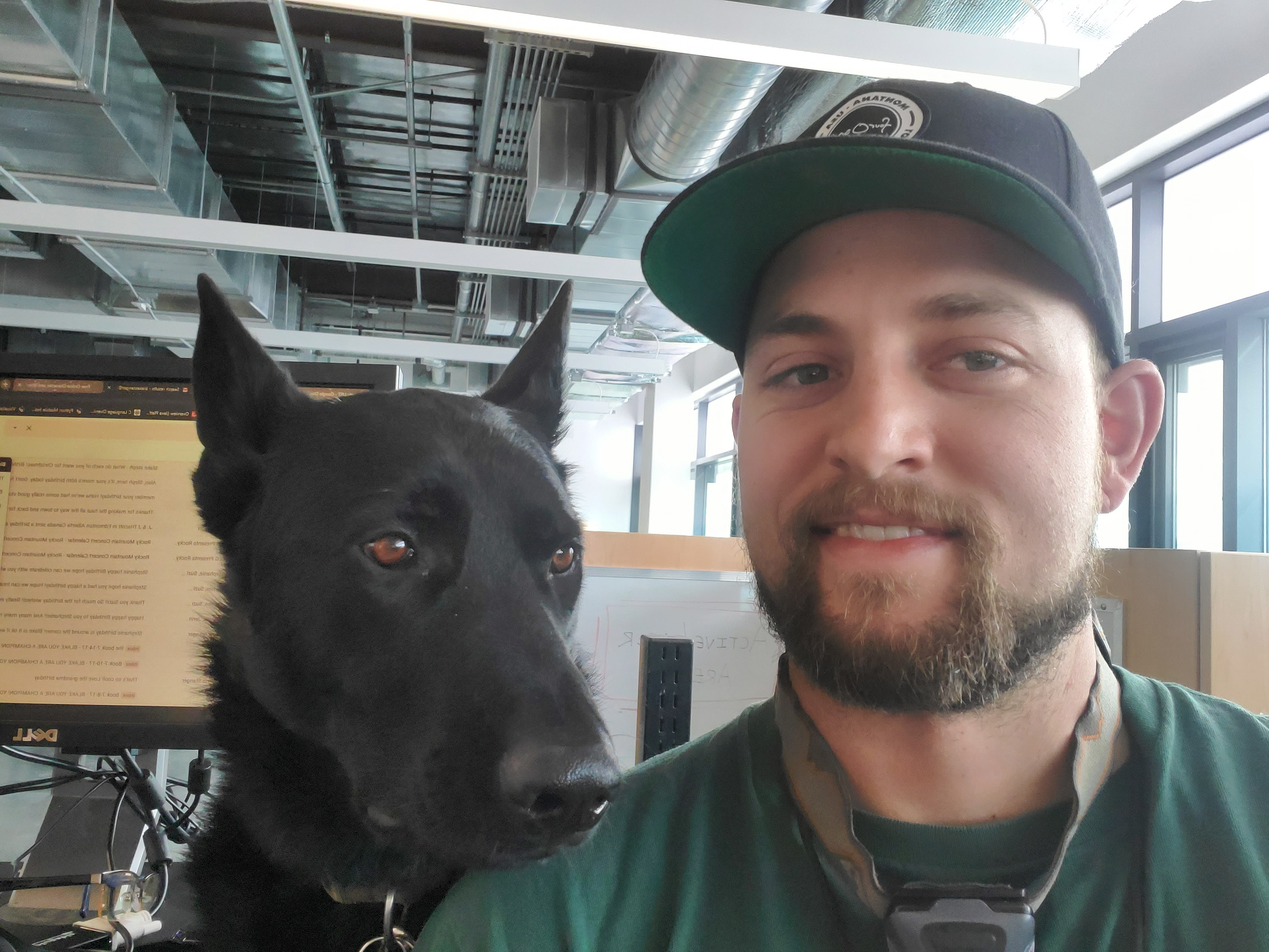
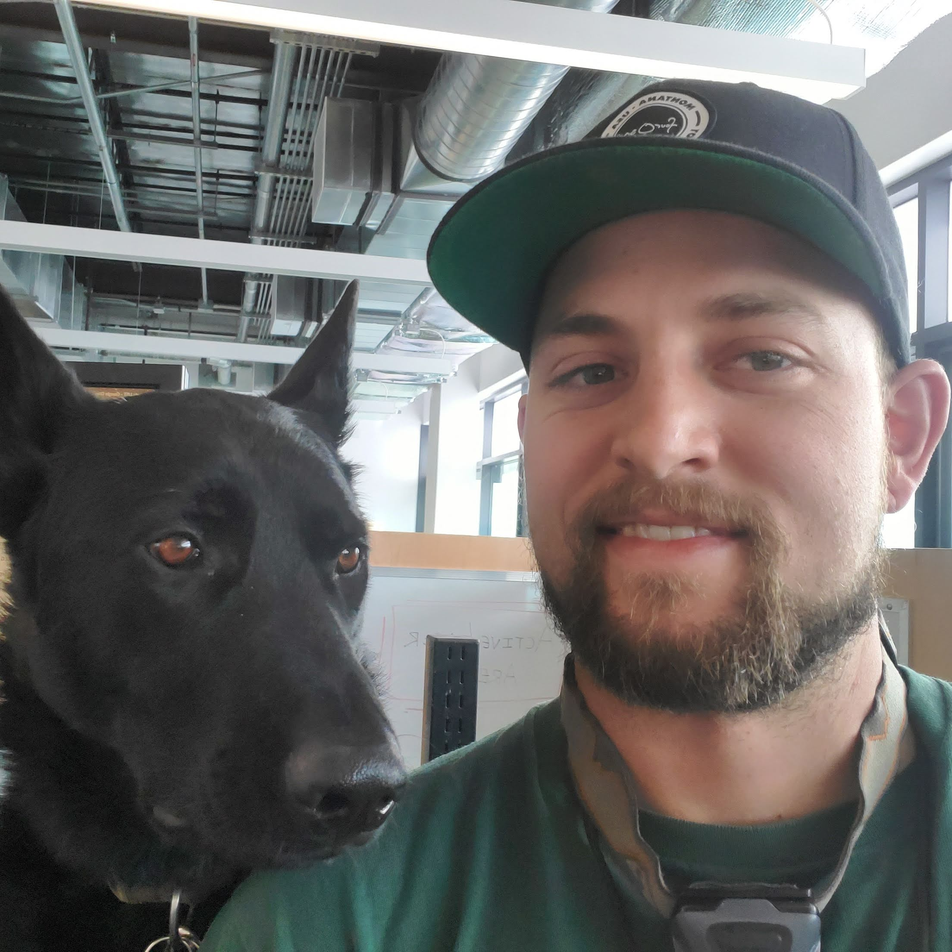
pic formatting fixed

diff --git a/_site/index.html b/_site/index.html
@@ -51,7 +51,7 @@
 <meta property="og:url" content="http://localhost:4000/" />
 <meta property="og:site_name" content="MSU Software Engineering Lab" />
 <script type="application/ld+json">
-{"@type":"WebSite","url":"http://localhost:4000/","headline":"Home","name":"MSU Software Engineering Lab","author":{"@type":"Person","name":"Thane Richard"},"@context":"https://schema.org"}</script>
+{"@type":"WebSite","headline":"Home","url":"http://localhost:4000/","name":"MSU Software Engineering Lab","author":{"@type":"Person","name":"Thane Richard"},"@context":"https://schema.org"}</script>
 <!-- End Jekyll SEO tag -->
 
 

diff --git a/_site/404.html b/_site/404.html
@@ -51,7 +51,7 @@
 <meta property="og:url" content="http://localhost:4000/404.html" />
 <meta property="og:site_name" content="MSU Software Engineering Lab" />
 <script type="application/ld+json">
-{"@type":"WebPage","url":"http://localhost:4000/404.html","headline":"404: Page not found","author":{"@type":"Person","name":"Thane Richard"},"@context":"https://schema.org"}</script>
+{"@type":"WebPage","headline":"404: Page not found","url":"http://localhost:4000/404.html","author":{"@type":"Person","name":"Thane Richard"},"@context":"https://schema.org"}</script>
 <!-- End Jekyll SEO tag -->
 
 

diff --git a/_posts/2020-01-27-people.md b/_posts/2020-01-27-people.md
@@ -14,37 +14,39 @@ image: norm.jpg
 Dr. Izurieta is an Associate Professor in the Gianforte School of Computing department at Montana State University.
 Born in Santiago, Chile, his research interests include empirical software engineering, design and architecture of software systems, design patterns, the measurement of software quality and cybersecurity.
 Dr. Izurieta has approximately 16 years experience working for various R&D labs at Hewlett Packard and Intel Corporation.
-When not teaching, Clem and his wife (Sharlyn) can be found in the local trails, running, hiking or snow shoeing!
+When not teaching, Clem and his wife (Sharlyn) can be found in the local trails, running, hiking or snow shoeing!  
+<br/>  
 
 # Post-doctoral Researchers
 
 ## Derek Reimanis
 ![Derek Reimanis](/assets/img/derek.png){:style="float: left;margin-right: 7px;margin-top: 7px;" height="28%" width="28%"}
 Dr. Derek Reimanis is currently a course assistant for the Empirical Software Engineering course at Montana State University, while eagerly awaiting funding to be finalized for a post-doc project focusing on cyber-security research. His research interests center around software quality assurance, incorporating software process automation, software design, technical debt, and empirical software engineering.
-Derek has lived in Colorado and Montana most of his life. He is an avid backpacker, aspiring mountaineer, and skier.
+Derek has lived in Colorado and Montana most of his life. He is an avid backpacker, aspiring mountaineer, and skier.  
+<br/>  
 
 # Graduate Students
 
 ## Andrew Johnson
-![Andrew Johnson](/assets/img/andrew.png){:style="float: left;margin-right: 7px;margin-top: 7px;"}
+![Andrew Johnson](/assets/img/andrew.jpeg){:style="float: left;margin-right: 7px;margin-top: 7px;"  height="28%" width="28%"}
 Andrew Johnson is a doctoral student at the Gianforte School of Computing.
 He has lived in Washington, California, and Montana, but decided to stay in Montana for his undergraduate degree in Helena, then come to Bozeman to continue his education.
 Andrew's research focuses on the relationship between software quality and security.
 Andrew enjoys the outdoors and is planning on replacing his picture as soon as he catches a bigger fish than the one pictured.
 
 ## Grant Nelson
-![Grant Nelson](/assets/img/grant.jpg){:style="float: left;margin-right: 7px;margin-top: 7px;"}
+![Grant Nelson](/assets/img/grant.jpg){:style="float: left;margin-right: 7px;margin-top: 7px;" height="28%" width="28%"}
 Grant Nelson is a doctoral student at the Gianforte School of Computing. He has an interest in software design, technical debt analysis, software quality assurance, and embedded software. His research focus is technical debt. He has been employed as a senior software engineer at Workiva since 2014. At Workiva, he researches and develops collaborative distributed systems with a large team. Grant has a love of hiking and camping as well as graphical software and game design.
 
 ## Karishma Rahman
-![Karishma Rahman](/assets/img/karishma.jpeg){:style="float: left;margin-right: 7px;margin-top: 7px;"}
+![Karishma Rahman](/assets/img/karishma.jpeg){:style="float: left;margin-right: 7px;margin-top: 7px;" height="28%" width="28%"}
 Karishma Rahman is an international graduate student from Bangladesh, currently pursuing her Masters degree at the Gianforte School of Computing. After getting her Bachelors's degree in computer science from BRAC University in Dhaka, Bangladesh, she decided to endeavor for her graduate studies, which led her to Montana State University in Bozeman, MT. Her research focus is on the automation of software testing. She is going to defend her master's thesis in Spring 2020. Afterward, she plans to continue her research in pursuit of a doctorate in computer science. Karishma enjoys traveling, cooking, baking, and painting.
 
 ## Faqeer Rehman
-![Faqeer Rehman](/assets/img/faqeer.jpg){:style="float: left;margin-right: 7px;margin-top: 7px;"}
+![Faqeer Rehman](/assets/img/faqeer.jpg){:style="float: left;margin-right: 7px;margin-top: 7px;"  height="28%" width="28%"}
 Faqeer ur Rehman is originally from Pakistan and is currently a doctoral student in Computer Science at the Gianforte School of Computing. He has 7 years of experience working in the software industry. He loves to work on designing and developing large scale web-based solutions having a special focus on a flexible architecture, optimization and security. Along with his team , he designed and developed a first-ever web-based E-Ticketing solution for Pakistan Railways that is currently in use across Pakistan. Along with his interests in software engineering, Faqeer also enjoys the development of Machine Learning systems and their testing using the Metamorphic testing (MT) technique.
 
-Read more about his project [here](/documentation/people.html/Testing Deep Neural Network (MLP architecture) for Disease Type Prediction)
+Read more about his project [here](/documentation/projects.html)
 
 ## David Rice
 ![David Rice](/assets/img/rice.png){:style="float: left;margin-right: 7px;margin-top: 7px;"}
@@ -60,13 +62,15 @@ Thane Richard is a master's student in computer science at Montana State Univers
 Thane is a relative neophyte in computer science, but is swiftly making up for lost time. He loves to travel and be outdoors and on the water. Thane received his Merchant Mariner Credential in 2019 and is working towards his 200 ton Master's license. He has taught on sailing school vessels and coaches the Bozeman High speech and debate short prep team.
 
 ## Nate Woods
-![Nate Woods](/assets/img/nate.jpg){:style="float: left;margin-right: 7px;margin-top: 7px;"}
+![Nate Woods](/assets/img/nate.jpg){:style="float: left;margin-right: 7px;margin-top: 7px;"  height="28%" width="28%"}
 Nate Woods is currently a doctoral student in the Computer Science Department at Montana State University in Bozeman, MT.  Nate holds a M.S. in Computer Science from Montana State University and a B.A. in Computer Science and Mathematics with a Minor in Physics from Carroll College.  Nate's current research focus is on software engineering, specifically the development and evolution of distributed systems.
+<br/>  
+<br/>  
 
 # Undergraduate Students
 
 ## Blake Stanger
-![Blake Stanger](/assets/img/blake.jpg){:style="float: left;margin-right: 7px;margin-top: 7px;"}
+![Blake Stanger](/assets/img/blake.jpg){:style="float: left;margin-right: 7px;margin-top: 7px;"  height="28%" width="28%"}
 Blake Stanger is an undergraduate student of computer science, Montana State University. Blake is consumed by a sense of discovery and exploration.  He has traveled extensively in several countries including India, China, Cambodia, Thailand, Iceland, Sweden, and Vietnam. Interesting economic times have led Blake to try his hand at many fields.
 
 He graduated with honors in 2013 with an English Teaching degree from Montana State University. Blake led a small classroom in Anaconda, Montana. He taught all levels, remedial reading all the way to advanced placement English for his small community. Blake has also led a team of diesel mechanics at the family business to repair and rebuild one of his favorite marvels of endurance: the diesel engine. Next Blake built farming irrigation systems. He is particularly proud of an entirely gravity fed thirty thousand gallon system built from scratch that operates in northern California on 500 acres. One influence was strong in all these fields. Computer science has been and will be a massive influence in our society. Once Blake understood the profound power technology will have in the coming years he returned to study at MSU in 2018.
@@ -74,6 +78,8 @@ He graduated with honors in 2013 with an English Teaching degree from Montana St
 Blake loves to understand complex systems, and explain those systems to others. Blake values efficiency.  He hopes to fuse his knowledge of education, machines, and technology to positively contribute to society. Blake is grateful to those who have taken the time to teach him and looks forward to helping others with their education.
 
 In his spare time Blake loves to write and is thirty thousand words into creating a novel, a story about adventure and coming of age in the modern American West. He also loves mountain biking, nature, and hunting.
+<br/>  
+<br/>  
 
 # Alumni of the Lab
 

diff --git a/_posts/2020-01-28-projects.md b/_posts/2020-01-28-projects.md
@@ -10,18 +10,28 @@ image: msu.jpg
 # Current Projects
 
 ## Development of a Software Quality Analysis Tool
+*Project Participants: David Rice, Thane Richard*
 
 For guidance on implementing this software, visit the [Documentation page](/pages/documentation)
 
 ## Testing Deep Neural Network (MLP architecture) for Disease Type Prediction
+*Project Participants: Faqeer Rehman*
 
 It is very challenging to test Machine Learning (ML) systems that learn from the data where we don't know the correct answer. Due to the absence of test oracle, one way to test these applications is to use the Metamorphic testing technique. I am currently working on applying the metamorphic relations (MRs) on the DNN based system (MLP architecture with regularization, having 5 layers) that learns and predicts cancer type given patient somatic SNPs data. These MRs are originally proposed by Xiaoyuan Xie in the paper (https://www.sciencedirect.com/science/article/pii/S0164121210003213) for testing ML-based systems. The main goal of my study is to identify how the metamorphic testing technique can be effectively used to identify faults in systems having non-deterministic nature like DNNs.
+<br/>
+<br/>
 
 # Past Projects
-## Decay, Grime and Technical Debt - Isaac Griffith and Derek Reimanis
-#### Analysis of the Structural and Behavioral Characteristics of Design Patterns
-We are working towards a more complete understanding of the structural properties and vulnerabilities associated with design patterns.
-These vulnerabilities are manifested as design pattern grime and design pattern rot.
-Through a more complete understanding we intend to identify methods by which we can assign a technical debt value to the identified vulnerabilities in a design pattern instantiation.
+## Decay, Grime and Technical Debt
+*Project Participants: Isaac Griffith, Derek Reimanis*
+<br/>
+<br/>
+
+## Analysis of the Structural and Behavioral Characteristics of Design Patterns
+*Project Participants: Derek Reimanis*  
+
+We are working towards a more complete understanding of the structural properties and vulnerabilities associated with design patterns. These vulnerabilities are manifested as design pattern grime and design pattern rot. Through a more complete understanding we intend to identify methods by which we can assign a technical debt value to the identified vulnerabilities in a design pattern instantiation.
+
 Along with technical debt measurement associated with design pattern issues we are also interested in the use of refactoring as a means to reduce or remove these debts, the development of simulation techniques to artificially insert grime and rot into pattern instances, and the development of a taxonomy that addresses the types of debts associated with design patterns.
- Along this path we will be developing several tools which will help automate the data collection process as well as form a base set of empirical software engineering tools for researchers.
+
+Along this path we will be developing several tools which will help automate the data collection process as well as form a base set of empirical software engineering tools for researchers.
